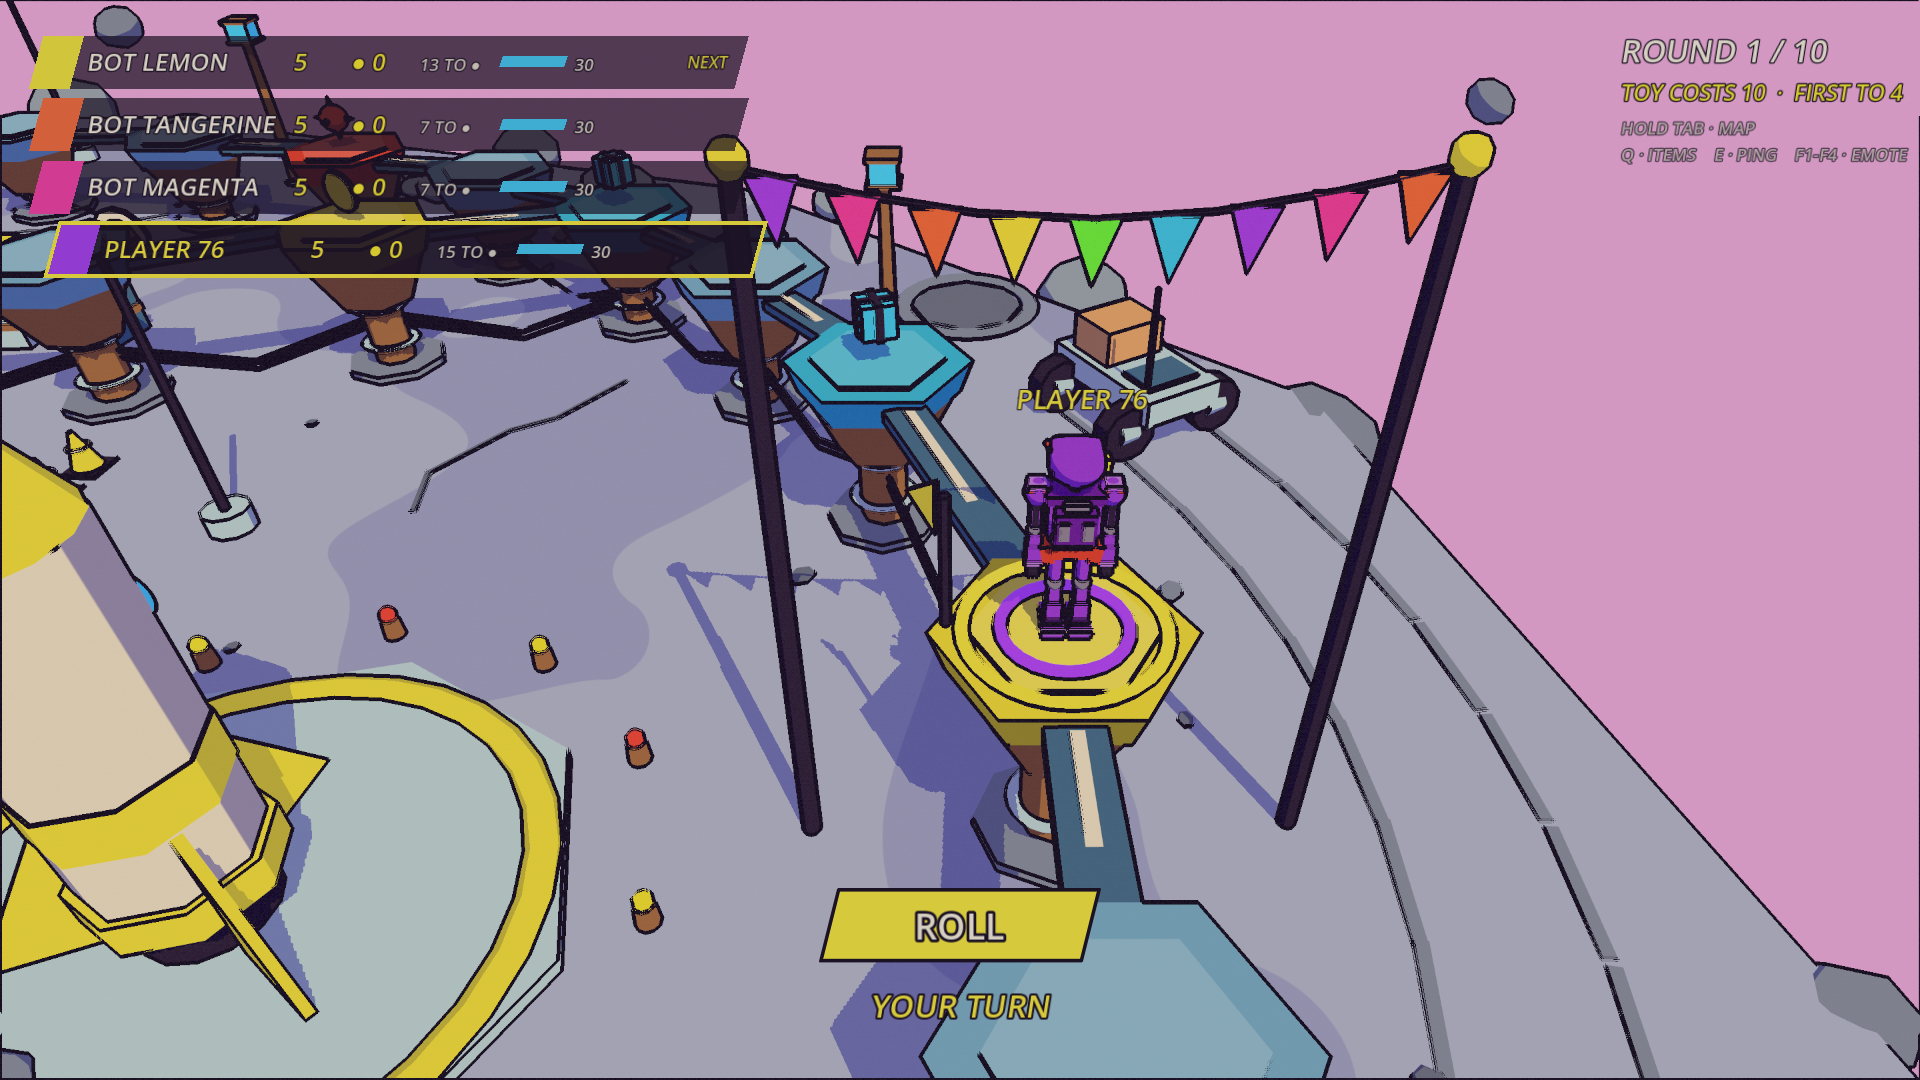
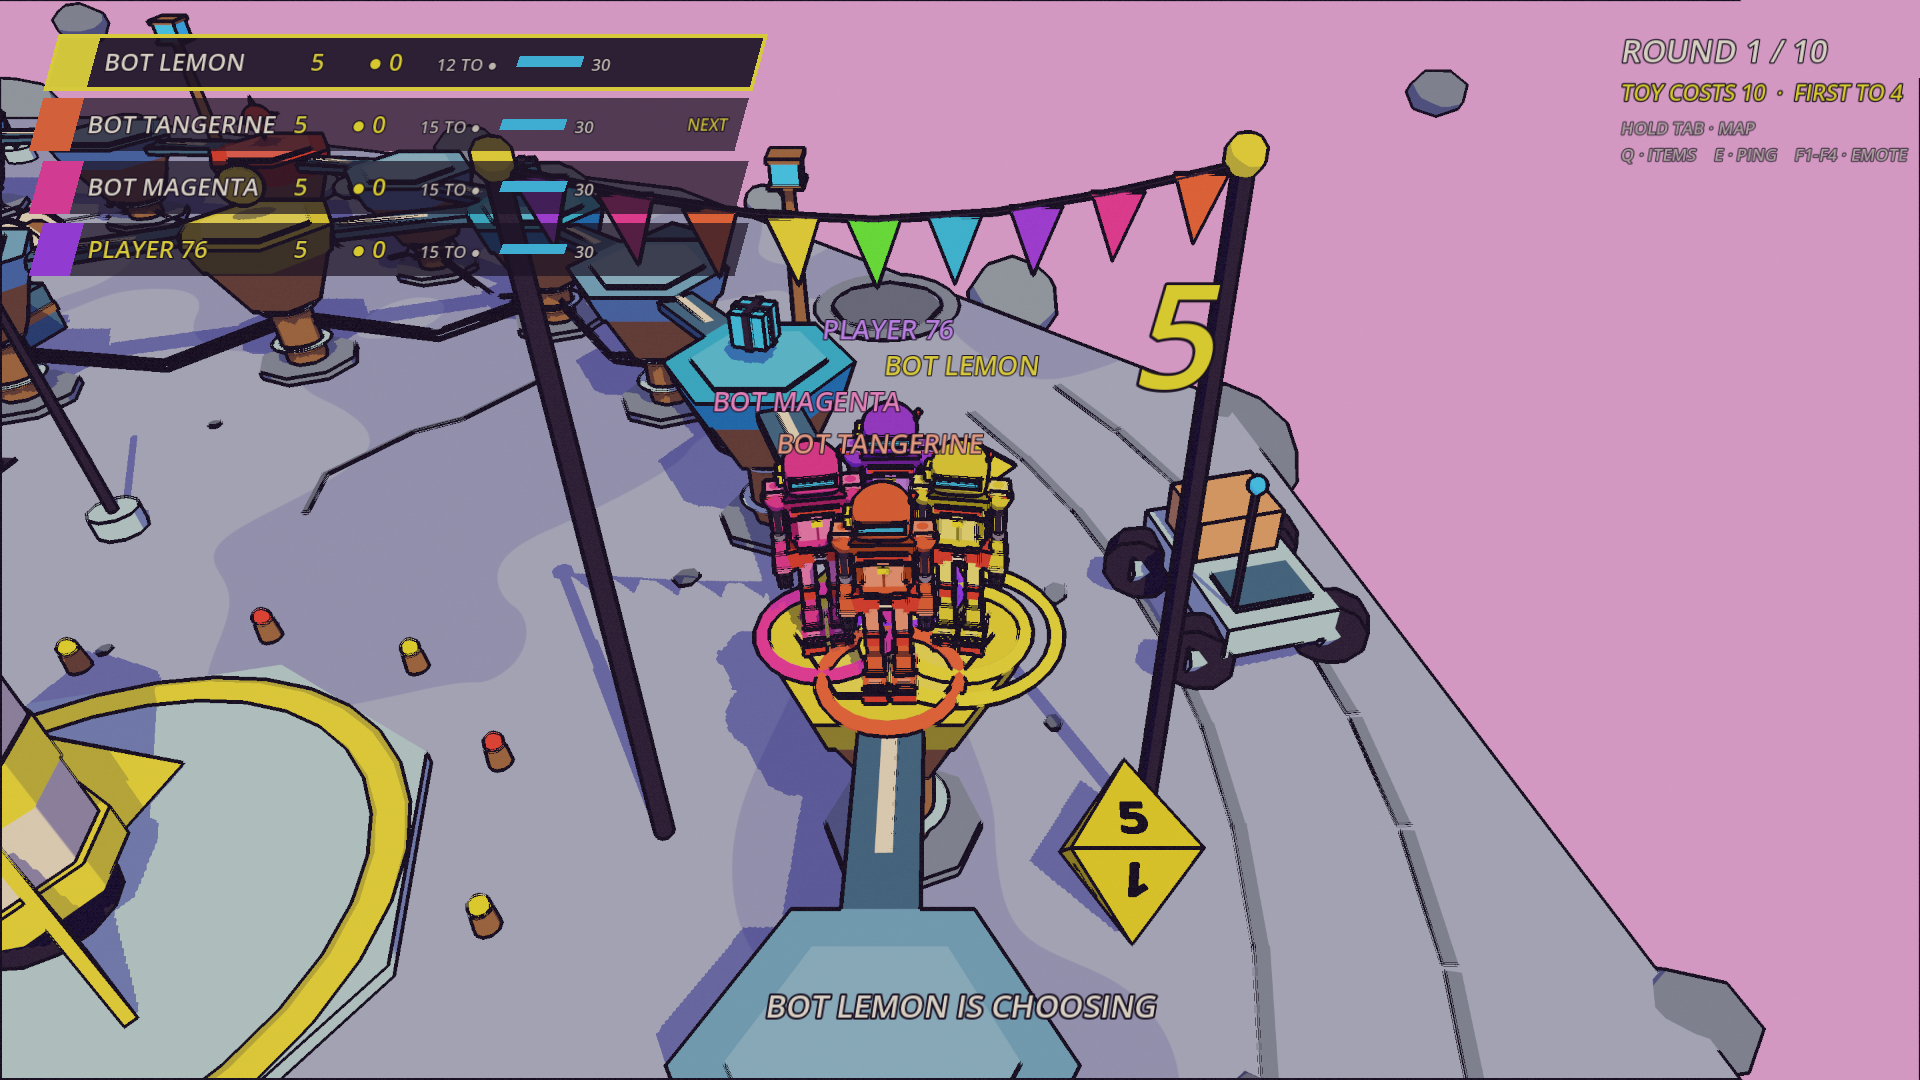
The guns aim at the reticle; a new board pawn faces its walkway
Sean: "have the guns aim towards the reticle, they are too tilted" and "when the game
starts they are facing the wrong way".

- viewmodel: the hip angles are derived, not hand-set: each barrel points from its hip
  position at the point 20 m down the camera axis (the reticle), no cant. Sniper yaw
  +0.67° / pitch +0.55°, AR +0.73° / +0.58° (were −11° / −19° yaw with a cant, muzzles
  swung right). Measured at 1080p: the sniper barrel's line hits the reticle, the scope
  passes 6 px over; the AR's line lands 7 px off. The hip positions are untouched.
- board_view: a new pawn turns toward its space's first next space; at the start the four
  stood facing north with their backs to the walkway.
- Frames: arena_hip_sniper, arena_hip_ar, board_turn. 79 tests; check_all PASS.

diff --git a/DECISIONS.md b/DECISIONS.md
@@ -185,3 +185,5 @@ Append-only. One line per assumption: date, the decision, the reason. Newest at 
 - 2026-09-23 — The first board build of a match, the smoothness plan's leftover (140 ms on the M4, 176 ms at 1080p on Sean's desktop: 2795 nodes on the start RPC's frame, the dressing 41 ms of it, then four pawns and the first render), is built like a minigame's look. `BoardView.setup()` keeps the director wiring, the camera, the beam and the blood root; `build_visuals()` (a coroutine, exposed as `BoardDirector.build_view()`, which Game awaits under `Wipe.hold()` before it slams) builds one chunk per rendered frame: the sky and sun, the tiles and planks, the markers and the goal, the moon in three chunks (slab and posts; craters and boulders; the props, with the crew member's Figure on a frame of its own because the first Figure of a match costs 20–29 ms), the asteroids, the horizon and the UFO, the dressing in five parts (`BoardDressing.build` is a coroutine: the path, the annexes, the props and ground, the structures and signs, the living things) and a pawn per frame; then it applies the state and plays any events that landed meanwhile (`_on_state` and `_play_next` wait for `built`; `is_animating()` is true until then, so the HUD holds its buttons). The seeded streams carry on across the chunks in the single build's order, so every peer's base is the one it was. Measured at 1080p windowed on his desktop: 18 frames, environment 0 | tiles 3 | markers 4 | moon 1 | craters 6 | props 29 | crew 0 | asteroids 0 | horizon 0 | dressing 9/17/5/4/1 | pawns 6/1/1/1 ms; the longest frames of the build 35–38 ms (the annexes, the props) against 176 before. Left: the start RPC's own frame, 57–71 ms under the cover (the director 16 ms, the HUD 2, the rest the transition frame's own work, the menu freed among it). The camera's focus on the active pawn now lands at the end of the build rather than the RPC frame, so the reveal's first frames show it settling. Verified: check_all, the 1080p frames (`board_wipe.png` mid-reveal), a windowed host with a headless client through `bad`.
 - 2026-09-23 — A measurement trap, written down so nobody chases it again. With the chunked build, the harness's immediate-start runs showed ~70 consecutive 16 ms frames after the reveal, and the old build showed none; in the real flow (the lobby on screen, then START MATCH) the old build shows the same period (97 frames) as the new one (79), so it is not the build. Some forty runs, bisected: not the wipe's drawing, not the hold, not the warm-up, not a long frame (a deliberate 200 ms stall), not motion on screen (a 300 px square sweeping every frame from boot changes nothing), not the present mode: Godot accepts vsync off, mailbox and adaptive (the boot line prints the mode it got) and every run is identical, because Sean's NVIDIA control panel forces vertical sync on for everything, so a "vsync off" number from his desktop is not one. The frame phases, now in every hitch line (process → pre-draw, the draw, post-draw → next process), put the 14 ms between the game's process and the renderer's pre-draw with a 1.3 ms draw: the main thread waits on a render-server call while the render thread's present blocks, one present per four refreshes of the display (2560×1440 at 240 Hz now; 5120×2160 at 165 Hz through 2026-09-22). The window's standing on the desktop sets how long: launched behind the desktop app it lasts until the first roll (1.2 s); with the game window brought to the foreground at launch, as in play, the whole 6 s run stayed at 60 fps, and so did a run with the editor covering it. Outside the game, and most likely the desktop's dynamic refresh rate on the new monitor (Windows' "Dynamic (60 Hz or 240 Hz)" idles the desktop at 60 Hz) with the driver's forced vsync locking the game to it. Sean checks Settings → System → Display → Advanced display → refresh rate (the fixed 240 Hz) and the NVIDIA vertical sync for BOMBA ("use the 3D application setting"), then a match with the driver's FPS overlay. The harness reads the refresh rate into its boot line, the hitch line carries draw calls and primitives beside the phases, and `--vsync=0|1|mailbox|adaptive` is there for the day the driver lets the game choose.
 - 2026-09-23 — Sean's eight notes, each scoped to its object. (1) The briefing's rules and controls sit on a solid panel: ink with the paper border, the map frame's own style and size (`PREVIEW_SIZE` 720 × 405 plus the frame), the two centred as a pair at any aspect (`briefing.png` retaken at 1080p; checked at 2000 × 1080). (2) A respawn refills every magazine and clears reloads and cooldowns (`WeaponSlots.refill`, authority-side inside `respawn_at`, replicated like the rest of the weapon state). (3) A held gun never pokes through a wall: `PlayerVisual._wall_check` casts a ray from the shoulder along the aim as far as the gun reaches (1.45 m the rifle, 1.05 the AR; the world layer only) every frame for figures on screen, and the Figure lifts the gun by the angle that clears the wall (reach · cos(raise) ≤ distance), eased at 8 rad/s so it never pops; it engaged 4 times in 45 s of bot play (a temporary log, removed). (4) The board camera keeps one heading, south of the pawn looking north, whichever way the pawn travels (`_heading_from` gone; the die still lands to the camera's right; `board_turn.png` and `board_hop.png` retaken). (5) The hitmarker is red (`danger`) for a body hit, red and a size bigger for a headshot; the impact stars stay paper and yellow and there is still no muzzle flash (the 2026-09-22 verdict on shooting effects stands except for the hitmarker, which this note overrides). `arena_hitmarker.png`. (6) The kill cam scopes when the killer did: the replay ring keeps the scope-in progress per tick (stride 8 → 9), the kill camera zooms with the CameraRig's own curve, the ghost weapon takes the ADS pose (`Viewmodel.ghost_ads`) and the HUD draws the iris and reticle from the overlay's `ads` and `sniper`. (7) The "body" at the killer's end-of-round spot was this peer's own first-person weapon: the kill camera draws every layer, and the hands and gun sit at the live eye position (the repo's own `killcam.png` showed the AR with its sight floating there); the kill cam hides `FpsMatch.local_viewmodel()` for its run and shows it after. The killer's figure was already hidden. `killcam.png` retaken. (8) The strafing stutter while aiming, measured rather than felt: at 165 fps the arena paces at a 6.00 ms median, 0.6 % late, no stalls, no double steps; at 60 fps (`--max_fps=N`, new: a 60 Hz player's frame rate, and his own display runs the game at 60 Hz until his settings change) Godot's default `physics_jitter_fix` 0.5 lets two 60 Hz ticks land in one frame and none in the next: 5 stalled frames and 3 double steps in 15 s, a 16 ms physics step, step variation 1.6 % mean and 2.7 % p95; with `physics/common/physics_jitter_fix = 0` (the project setting now; Godot's docs ask for it with interpolation) 0–2 stalls and 1–2 double steps over three 15 s runs, 0.8–1.4 % and 1.7–2.8 %, the physics step 5–13 ms, at most one frame over 1.5× the median. The CameraRig also processes after every TickInterpolator explicitly (`process_priority` 10), so the camera never reads last frame's body. Beyond that, the display itself (two entries up) is the thing to change: at 60 Hz a frame that runs 1 ms long shows as a 33 ms one, at 240 Hz as 4 ms. `--screenshot_event=hit` arms a frame on the local player's next hit. His verdict on the feel pending.
+- 2026-09-23 — Sean: "can you have the guns aim towards the reticle? they are too tilted right now." The hip angles were a hand-set pose (sniper pitch 3° / yaw −11° / roll −5°, AR 4° / −19° / −7°): both muzzles swung to the right, away from the axis the gun sits to the right of, so the barrel's line passed 70 px above and right of the reticle at 1080p. The angles are now derived (`Viewmodel._aim_at_reticle`): each barrel points from its hip position at the point `CONVERGE_M` (20 m) down the camera's own axis, which is the reticle, and the cant is gone. That gives the sniper yaw +0.67° / pitch +0.55° and the AR +0.73° / +0.58°. Measured on the frame (62° vertical FOV, the viewmodel's 1.22 scale): the sniper barrel runs from the muzzle at (1089, 633) to (1430, 879) and its line reaches x = 960 at y = 540, the reticle; the scope, 14 cm above it, passes 6 px over. The hip POSITIONS are the original ones, untouched; the ADS positions and the kill cam's ghost are unchanged.
+- 2026-09-23 — Sean: "when the game starts they are facing the wrong way." A pawn was built with no turn, so it faced north whatever its walkway did; on BOMBA BAY the walkway leaves the start southward, so the four pawns stood with their backs to the first space, facing the camera. `BoardView._face_travel` turns a new pawn toward its space's first `next` space (the same turn the hops make), so at the start everyone faces down the walkway, backs to the camera. Verified on the start frame.

diff --git a/CLAUDE.md b/CLAUDE.md
@@ -30,7 +30,9 @@ that travels with the repo.
   asked for on 2026-09-22): monitor head, visor slit, armoured chest, pauldrons, red pelvis and toe caps.
   The head is ONE piece (an iMac G3 profile as a single mesh, `Figure.head_mesh`): a bezel on a dome
   read as "a mask on a normal circle head".
-- Sniper: the ORIGINAL hip pose (he rejected every re-angle), cream body, black scope, glass on the
+- Sniper: the ORIGINAL hip POSITION (he rejected every re-angle of the pose), but since 2026-09-23 the
+  barrel AIMS AT THE RETICLE ("they are too tilted"): the hip angles are derived from the position
+  (`Viewmodel._aim_at_reticle`, converging 20 m out, no cant), never hand-set again. Cream body, black scope, glass on the
   eyepiece only, one-round-at-a-time reload with a heavy sound. The eyepiece and its reflective glass
   are "the best feature": NEVER remove or change them (removed once by mistake on 2026-09-22, reverted
   on his word within the hour). No bolt handle (the tan bolt and its knob sat in the bottom-right

diff --git a/STATUS.md b/STATUS.md
@@ -587,6 +587,12 @@ measured at 1920×1080 unless noted, on the 5090, and extrapolated.
   the last minigame's ranking (tested); the pawns rollerskate across the board (a level glide,
   a push-glide walk, wheels under the boots). Frames: `arena_hip_ar.png`, `arena_burst.png`,
   `board_turn.png`, `board_hop.png`, `board_reward_card.png`. His verdict pending.
+- **Guns aim at the reticle; pawns face the walkway at the start** (Sean, 2026-09-23): the hip
+  angles are derived from each gun's position so the barrel converges on the camera axis 20 m out
+  (sniper yaw +0.67° / pitch +0.55°, AR +0.73° / +0.58°, no cant; they were −11° / −19° yaw with a
+  cant, muzzles swung right). Measured on the 1080p frame: the sniper barrel's line hits the
+  reticle; the scope passes 6 px over it. A new board pawn faces its first step (they stood
+  facing north, backs to the walkway). His verdict pending.
 
 ## 2026-09-22 — session 8: the lost kill, the export preset, KING OF THE HILL
 
